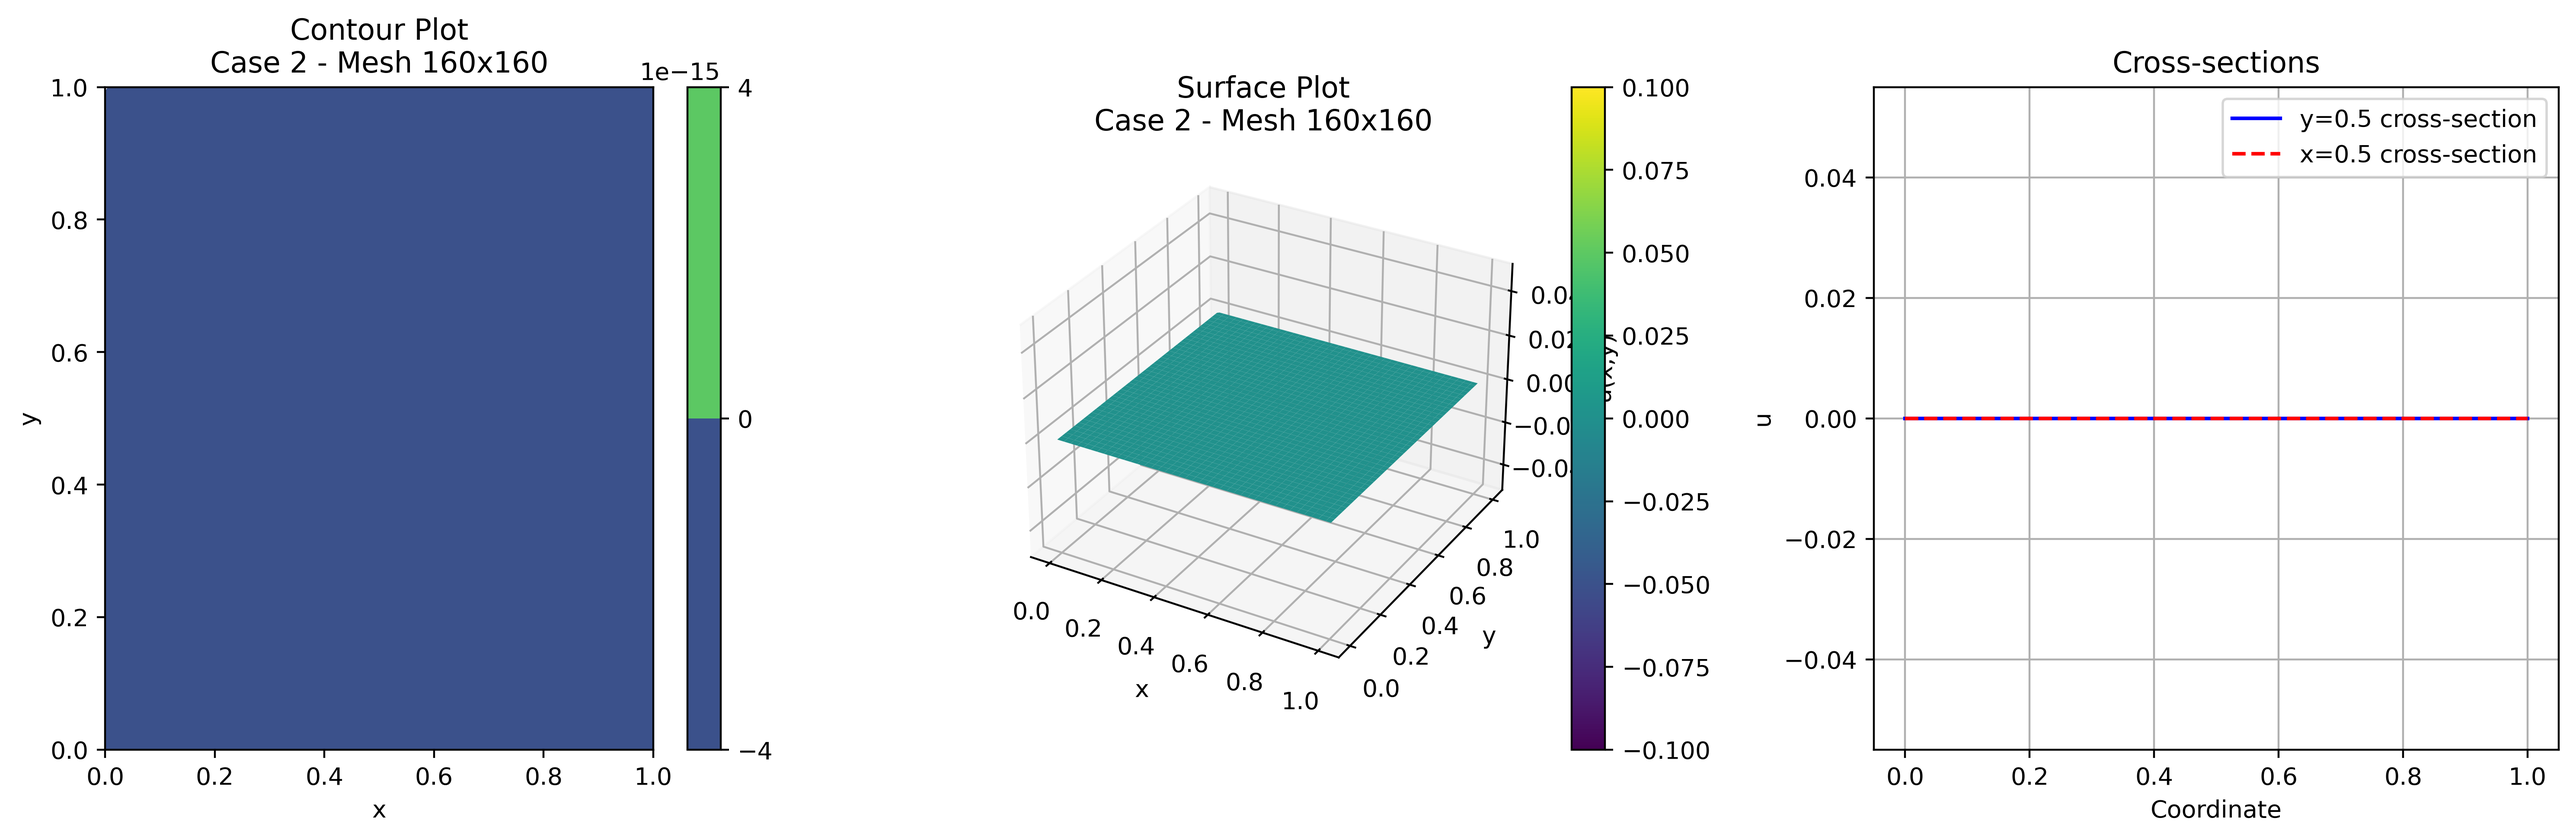
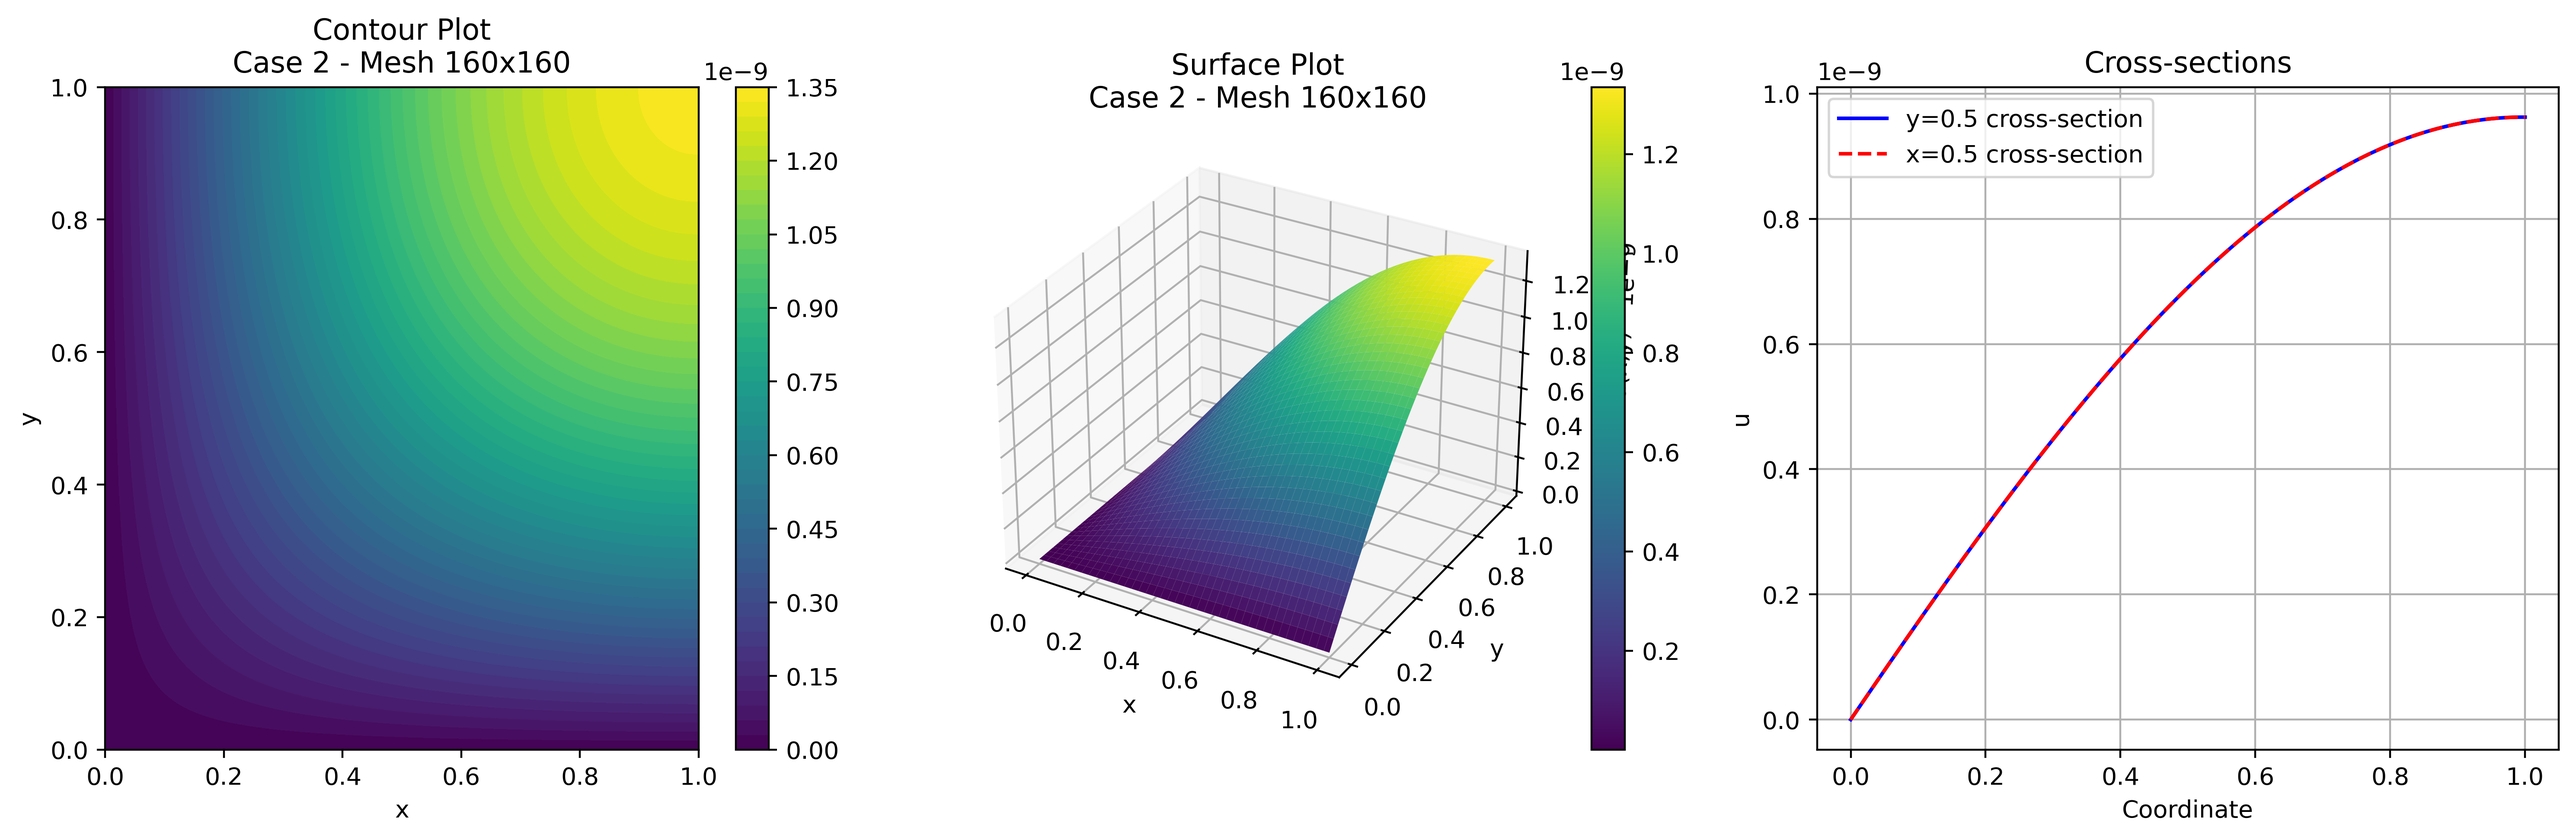
results

diff --git a/README.md b/README.md
@@ -1,70 +1,83 @@
-
 ## Solving Case 1
+
+Converged after 447 iterations. Final residual: 9.83e-07
 
 **Mesh 10x10:**
 Dirichlet conditions satisfied: False
 Neumann conditions satisfied:
   right: True
   bottom: True
-  top: False
+  top: True
+Converged after 1502 iterations. Final residual: 9.99e-07
 
 **Mesh 20x20:**
 Dirichlet conditions satisfied: False
 Neumann conditions satisfied:
   right: True
   bottom: True
-  top: False
+  top: True
+Converged after 5251 iterations. Final residual: 9.95e-07
 
 **Mesh 40x40:**
 Dirichlet conditions satisfied: False
 Neumann conditions satisfied:
   right: True
   bottom: True
-  top: False
+  top: True
+Converged after 18997 iterations. Final residual: 9.99e-07
 
 **Mesh 80x80:**
 Dirichlet conditions satisfied: False
 Neumann conditions satisfied:
   right: True
   bottom: True
-  top: False
+  top: True
+Warning: Did not converge within 20000 iterations. Final residual: 4.18e-04
 
 **Mesh 160x160:**
 Dirichlet conditions satisfied: False
 Neumann conditions satisfied:
   right: True
   bottom: True
-  top: False
+  top: True
+
 
 ## Solving Case 2
 
+Converged after 216 iterations. Final residual: 9.50e-07
+
 **Mesh 10x10:**
 Dirichlet conditions satisfied: False
 Neumann conditions satisfied:
   right: True
-  top: False
+  top: True
+Converged after 758 iterations. Final residual: 9.82e-07
 
 **Mesh 20x20:**
 Dirichlet conditions satisfied: False
 Neumann conditions satisfied:
   right: True
-  top: False
+  top: True
+Converged after 2692 iterations. Final residual: 9.95e-07
 
 **Mesh 40x40:**
 Dirichlet conditions satisfied: False
 Neumann conditions satisfied:
   right: True
-  top: False
+  top: True
+Converged after 9800 iterations. Final residual: 9.98e-07
 
 **Mesh 80x80:**
 Dirichlet conditions satisfied: False
 Neumann conditions satisfied:
   right: True
-  top: False
+  top: True
+Warning: Did not converge within 20000 iterations. Final residual: 8.36e-04
 
 **Mesh 160x160:**
 Dirichlet conditions satisfied: False
 Neumann conditions satisfied:
   right: True
-  top: False
+  top: True
+
 
